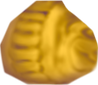
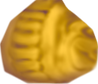
.

Changed region(s): [[0.0306, 0.0, 1.0, 0.5], [0.4286, 0.119, 0.4898, 0.1429], [0.0, 0.4524, 0.0306, 0.5]]

diff --git a/scripts/myths-i-feed.js b/scripts/myths-i-feed.js
@@ -31,7 +31,8 @@ const parts=['back','leg','arm','torso','head'], // in drawing order
     chainColor=[165,165,175,200],
     mythLifespan=1000,
     mythWeaknessThreshold=mythLifespan*.1,
-    mythLifeLossSpeed=.25,
+    // mythLifeLossSpeed=.25,
+    mythLifeLossSpeed=.3,
     mythLifeLossFromBreedingRatio=.75,
     mushroomLifespan=20,
     mushroomLifeLossSpeed=.02,
@@ -530,21 +531,19 @@ function draw(){
         // } else if (keyIsDown(83)){
         //     brain.dreads[0].dropWings()
         // }
-        for (let i=0; i<1; i++){
-            Engine.update(brain.engine)
-            clear()
-            limboCanvas.clear()
-            if (frameCount%60<20) myceliumCanvas.background(...bgColor,5)
-            brain.updateQuadTrees()
-            brain.updateMyths()
-            if (!brain.fullOf('myths')) brain.breedMyths()
-            brain.updateMycelium()
-            if (!brain.fullOf('hyphae')) brain.growNetwork()
-            brain.updateMushrooms()
-            if (!brain.fullOf('mushrooms')&&frameCount>300) brain.sproutMushrooms()
-            brain.updateDroppings()
-            // brain.updateDreads()
-        }
+        Engine.update(brain.engine)
+        clear()
+        limboCanvas.clear()
+        if (frameCount%60<20) myceliumCanvas.background(...bgColor,5)
+        brain.updateQuadTrees()
+        brain.updateMyths()
+        if (!brain.fullOf('myths')) brain.breedMyths()
+        brain.updateMycelium()
+        if (!brain.fullOf('hyphae')) brain.growNetwork()
+        brain.updateMushrooms()
+        if (!brain.fullOf('mushrooms')&&frameCount>300) brain.sproutMushrooms()
+        brain.updateDroppings()
+        // brain.updateDreads()
     } else if (!selector.hasClass('hidden')){
         Engine.update(profileEngine)
         profileCanvas.clear()
@@ -668,6 +667,7 @@ class Brain {
             const partner=myth.seekMate()
             if (!partner) continue
             const child=myth.mateWith(partner)
+            child.mutate()
             child.phenotype()
             child.addToWorld(brain.engine)
             newMyths.push(child)
@@ -1270,17 +1270,6 @@ class Myth {
             const p=random(1)
             if (p<proba) gene=this.dna[i]
             else gene=partner.dna[i]
-            const p2=random(1)
-            if (i<notAppearanceGeneIndex&&p2<=mutationRateAppearance) { // is appearance gene
-                if (i%2==0){ // allow mutation for number of body parts only
-                    const partIndex=i/2,
-                        min=minParts[partIndex],
-                        max=maxParts[partIndex]
-                    gene=round(random(min,max))
-                }
-            } else if (i>=notAppearanceGeneIndex&&p2<=mutationRateOther){
-                gene=random(1)
-            }
             newDNA.push(gene)
         }
         let childPosition=V.sub(centerScreen,this.position)
@@ -1290,6 +1279,21 @@ class Myth {
         this.timeBetweenMating=timeBetweenMating
         this.life*=(1-mythLifeLossFromBreedingRatio)
         return child
+    }
+    mutate(){
+        for (let i=0; i<this.dna.length; i++){
+            const p=random(1)
+            if (i<notAppearanceGeneIndex&&p<=mutationRateAppearance) { // is appearance gene
+                if (i%2==0){ // allow mutation for number of body parts only
+                    const partIndex=i/2,
+                        min=minParts[partIndex],
+                        max=maxParts[partIndex]
+                    this.dna[i]=round(random(min,max))
+                }
+            } else if (i>=notAppearanceGeneIndex&&p<=mutationRateOther){
+                this.dna[i]=random(1)
+            }
+        }
     }
     geneExpressed(part){
         return this.anatomy[part].count>0

diff --git a/index.html b/index.html
@@ -46,7 +46,7 @@
                         If you have ideas, feedback, questions, cool things to send, reach me at
                     </p>
                     <p class="contact"><span>e.</span><a href="mailto:lyyytong@gmail.com">lyyytong@gmail.com</a></p>
-                    <p class="contact"><span>ig.</span><a href="http://" target="_blank" rel="noopener noreferrer">lyyy.fish</a></p>
+                    <p class="contact"><span>ig.</span><a href="https://www.instagram.com/lyyy.fish" target="_blank" rel="noopener noreferrer">lyyy.fish</a></p>
                 </div>
             </div>
             <div id="projects" class="content open">

diff --git a/styles/myths-i-feed.css b/styles/myths-i-feed.css
@@ -294,7 +294,7 @@ p {
     bottom:0;
     transform: translateY(calc(100% + .55ch));
 }
-#controls {
+#controls { 
     position: fixed;
     bottom: 0;
     left:0;
